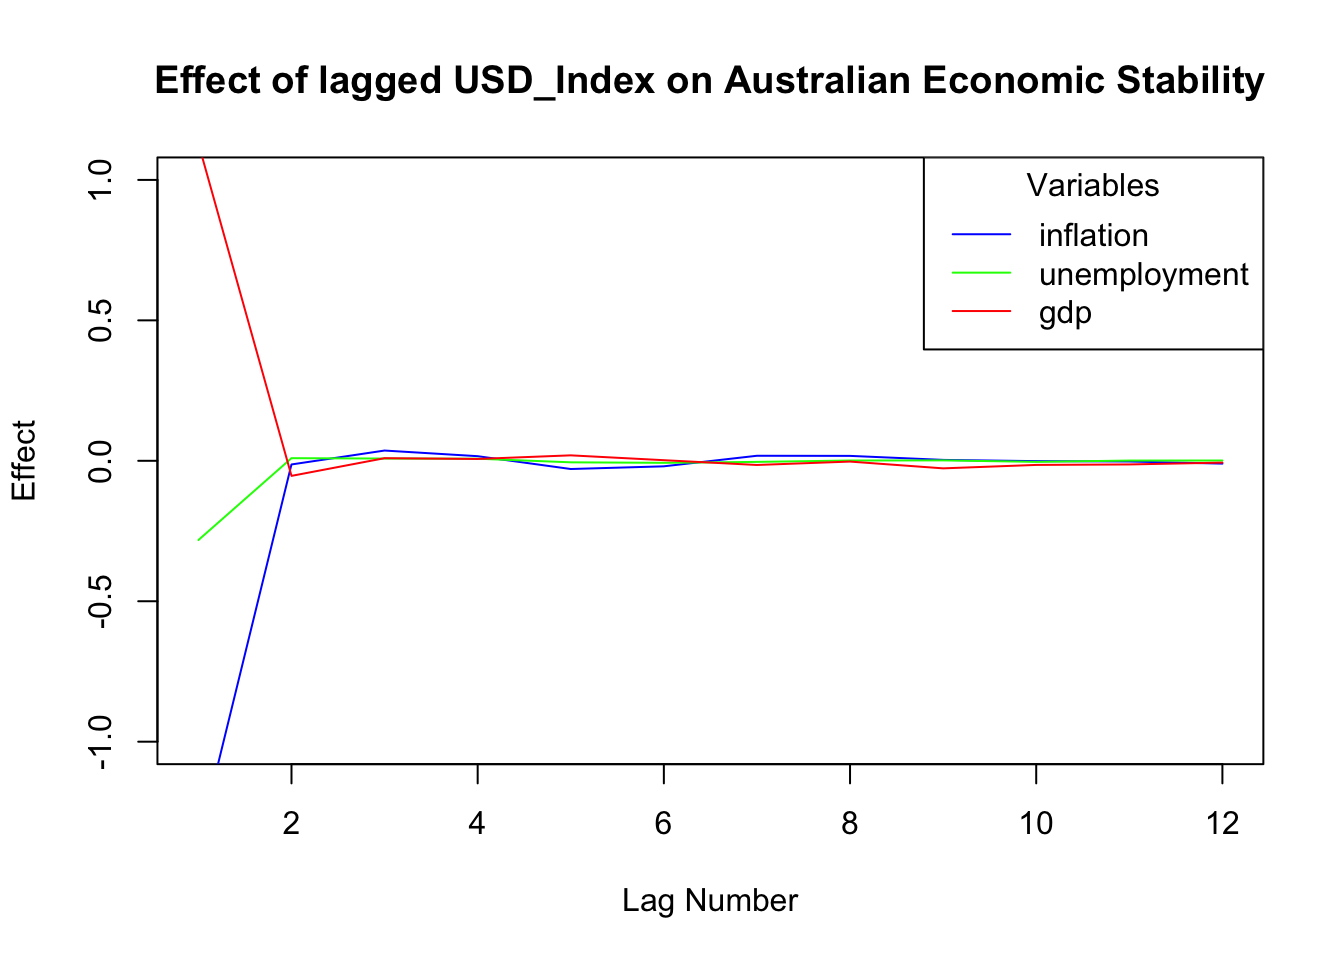
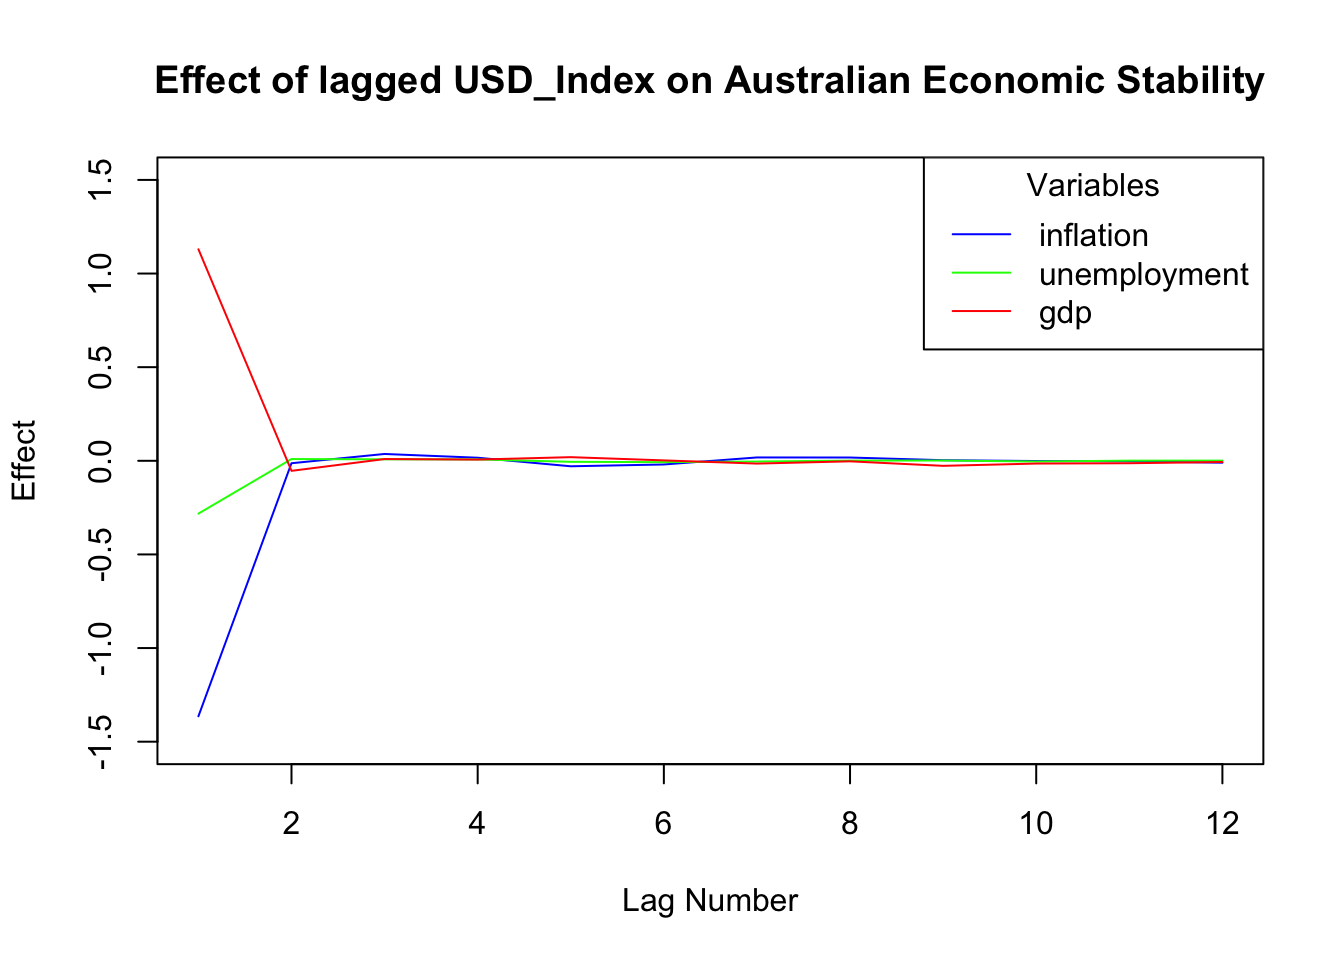
More changes for RP2

diff --git a/docs/index.html b/docs/index.html
@@ -782,20 +782,20 @@ p(B_+, B_0) \sim NGN \left( B, \Omega, S, \nu \right)
 <section id="model-extension-solving-the-identification-problem-using-a-non-normality-approach" class="level3">
 <h3 class="anchored" data-anchor-id="model-extension-solving-the-identification-problem-using-a-non-normality-approach">Model Extension: Solving the Identification Problem Using a Non-Normality Approach</h3>
 <p>We use a t-distribution to model the error terms. Given difficulties with a direct estimation of the t-distribution, we proceed as follows.</p>
-<p>To evaluate the overall kernel for the extended Bayesian Structural Vector Autoregression (SVAR) model where the error term <span class="math inline">\(u_t\)</span> follows a distribution <span class="math inline">\(N(0, \Lambda I_N)\)</span> and <span class="math inline">\(\Lambda\)</span> itself is distributed according to an Inverse Gamma Type 2 (IG2) with parameters <span class="math inline">\(\nu, \nu\)</span>, we need to account for the complexity added by this distribution of the error variance. This changes how the kernel of the likelihood function is formulated and combined with the prior.</p>
+<p>To evaluate the overall kernel for the extended Bayesian Structural Vector Autoregression (SVAR) model where the error term <span class="math inline">\(u_t\)</span> follows a distribution <span class="math inline">\(N(0, \lambda I_N)\)</span> and <span class="math inline">\(\lambda\)</span> itself is distributed according to an Inverse Gamma square (IG2) with parameters <span class="math inline">\(\nu, \nu\)</span>, we need to account for the complexity added by this distribution of the error variance. This changes how the kernel of the likelihood function is formulated and combined with the prior.</p>
 </section>
 <section id="step-1-formulating-the-kernel-of-the-likelihood-function" class="level3">
 <h3 class="anchored" data-anchor-id="step-1-formulating-the-kernel-of-the-likelihood-function">Step 1: Formulating the Kernel of the Likelihood Function</h3>
-<p>With the error term <span class="math inline">\(u_t \sim N(0, \Lambda I_N)\)</span>, the likelihood function’s kernel, incorporating the variance parameter <span class="math inline">\(\Lambda\)</span>, becomes: <span class="math display">\[
+<p>With the error term <span class="math inline">\(u_t \sim N(0, \lambda I_N)\)</span>, the likelihood function’s kernel, incorporating the variance parameter <span class="math inline">\(\lambda\)</span>, becomes: <span class="math display">\[
 \text{det}(B_0)^T \exp\left(-\frac{1}{2\lambda} \sum_{n=1}^N (b_nV_nY - B_nX)(b_nV_nY - B_nX)^T\right)
 \]</span></p>
 </section>
 <section id="step-2-estimating-lambda" class="level3">
 <h3 class="anchored" data-anchor-id="step-2-estimating-lambda">Step 2: Estimating <span class="math inline">\(\lambda\)</span></h3>
-<p>Since <span class="math inline">\(\Lambda\)</span> is a random variable following <span class="math inline">\(\lambda \sim IG2(\nu, \nu)\)</span>, its effect can be sampled from the density function for <span class="math inline">\(\lambda\)</span>: <span class="math display">\[
+<p>Since <span class="math inline">\(\lambda\)</span> is a random variable following <span class="math inline">\(\lambda \sim IG2(\nu, \nu)\)</span>, its effect can be sampled from the density function for <span class="math inline">\(\lambda\)</span>: <span class="math display">\[
 p(\lambda) = \frac{(\nu/2)^{\nu/2}}{\Gamma(\nu/2)} \lambda^{-(\nu/2+1)} \exp\left(-\frac{\nu}{2\lambda}\right)
 \]</span></p>
-<p>We can use the rinvgamma() function to sample this <span class="math inline">\(\lambda\)</span>.</p>
+<p>We can use the rinvgamma() function to sample this <span class="math inline">\(\lambda\)</span>. In the estimation process for this extended model, we sample 5000 times from the IG2 distribution and use the mean value for <span class="math inline">\(\lambda\)</span>.</p>
 </section>
 <section id="step-3-evaluating-the-kernel" class="level3">
 <h3 class="anchored" data-anchor-id="step-3-evaluating-the-kernel">Step 3: Evaluating the Kernel</h3>
@@ -824,66 +824,66 @@ p(B^+; B_0 \mid Y; X) \propto p(Y \mid X, B^+, B_0) \times p(B^+; B_0)
 <pre><code>[1] "Extended Model Normalized B0 matrix"</code></pre>
 </div>
 <div class="cell-output cell-output-stdout">
-<pre><code>           [,1]         [,2]     [,3]      [,4]
-[1,] 17.5447248  0.000000000 0.000000 0.0000000
-[2,]  0.6066615  0.783290029 0.000000 0.0000000
-[3,]  3.0716927 -0.001382988 2.495755 0.0000000
-[4,] -1.6244783  0.137164623 1.106258 0.6149039</code></pre>
+<pre><code>          [,1]         [,2]     [,3]      [,4]
+[1,] 21.931153  0.000000000 0.000000 0.0000000
+[2,]  0.789457  0.974975827 0.000000 0.0000000
+[3,]  3.809506 -0.005921796 3.100595 0.0000000
+[4,] -2.045686  0.179581024 1.358565 0.7634032</code></pre>
 </div>
 <div class="cell-output cell-output-stdout">
 <pre><code>[1] "Extended Model B plus matrix"</code></pre>
 </div>
 <div class="cell-output cell-output-stdout">
 <pre><code>           [,1]       [,2]        [,3]        [,4]        [,5]         [,6]
-[1,]  0.5717264 17.5811710  0.01870660 -0.04589570 -0.09253856 -0.052259983
-[2,] -0.3542506  0.5764503  0.76088965  0.03043814 -0.06478844  0.006236397
-[3,]  0.8443993  3.0908332 -0.11034114  2.43528012 -0.25961705 -0.063329277
-[4,] -0.5140678  1.5603584 -0.02045132 -1.09059674 -0.49160823  0.054422973
-            [,7]        [,8]       [,9]        [,10]        [,11]        [,12]
-[1,] -0.06564723  0.07953372 0.01239564 -0.029636249 -0.001895286  0.003031564
-[2,] -0.11492593 -0.04131468 0.07175522 -0.010221827  0.041708166 -0.005259848
-[3,]  0.01314148 -0.01796479 0.01810549  0.073489257  0.079760401 -0.021597586
-[4,] -0.10373115 -0.02963163 0.10150992 -0.008059976  0.014747225  0.014687269
-           [,13]       [,14]        [,15]         [,16]        [,17]
-[1,] -0.03702815 0.004066341  0.021014599 -0.0091545145 -0.003600047
-[2,]  0.04017966 0.025620049 -0.027909745 -0.0009747338  0.003676482
-[3,]  0.01812221 0.022695741  0.004634547  0.0049926167 -0.041039898
-[4,]  0.03824952 0.055160070  0.008446080  0.0119544493  0.055013162
-            [,18]       [,19]        [,20]         [,21]       [,22]
-[1,] -0.019050135 0.023046555  0.012196141  6.585230e-03  0.03184999
-[2,] -0.018830333 0.047394365 -0.007492864 -2.511422e-05 -0.01102099
-[3,]  0.005966256 0.003480108  0.040075499 -6.921549e-03 -0.01359062
-[4,]  0.019729984 0.005408230 -0.041434983 -3.528769e-02 -0.01239007
-           [,23]       [,24]         [,25]        [,26]        [,27]      [,28]
-[1,] -0.02291107 -0.02055334  0.0007983523  0.016319447  0.007056017 0.01660435
-[2,] -0.01978706  0.03967943  0.0253514406  0.020793446  0.004487553 0.01351698
-[3,]  0.01869122  0.00013625 -0.0070782904 -0.009728115 -0.013550444 0.02034147
-[4,] -0.01452926 -0.02425735 -0.0052317042  0.014353257 -0.008497063 0.03571637
-           [,29]        [,30]        [,31]        [,32]        [,33]
-[1,] -0.01340954  0.015619523 -0.005175376 -0.006349928 -0.014937136
-[2,]  0.01449678  0.009055081  0.012913362  0.006688168 -0.002136969
-[3,] -0.01214821  0.001323782  0.005293385 -0.002213979  0.010600257
-[4,] -0.00367765 -0.001298856 -0.004144130 -0.012957241 -0.002697893
-           [,34]        [,35]       [,36]        [,37]        [,38]
-[1,] -0.02063450 -0.013240470 0.006270982 -0.010951056  0.001474374
-[2,]  0.01355824 -0.006683336 0.011844474  0.003575398  0.001850699
-[3,] -0.01381290  0.000631449 0.003864264  0.002934828 -0.010007351
-[4,] -0.01635783  0.001181497 0.004433579  0.002543610 -0.026447401
-            [,39]        [,40]        [,41]        [,42]         [,43]
-[1,] -0.005027494 -0.012138949  0.002900494 -0.006772348 -0.0006355909
-[2,] -0.017747655 -0.003105948  0.016119756  0.012443641 -0.0040292022
-[3,] -0.008879749 -0.002396401 -0.009219927  0.009180831  0.0087136441
-[4,]  0.004680471 -0.014607747 -0.001484030 -0.001031692 -0.0180034960
-            [,44]         [,45]         [,46]        [,47]        [,48]
-[1,] -0.008060036 -0.0103340192  0.0093693131 -0.007302463  0.010578067
-[2,]  0.007773461  0.0032650704  0.0007821437  0.006720902 -0.010925315
-[3,]  0.015606717  0.0053015151 -0.0089897919 -0.004451172 -0.004736420
-[4,] -0.001475331  0.0007572641 -0.0021951404 -0.001070353 -0.007452707
-            [,49]
-[1,]  0.003410234
-[2,] -0.003795693
-[3,]  0.001304151
-[4,] -0.004786440</code></pre>
+[1,]  0.5545201 21.9783630  0.01707903 -0.05016267 -0.10330233 -0.046527088
+[2,] -0.3446697  0.7543187  0.94575120  0.03568751 -0.06939804  0.003062737
+[3,]  0.9069536  3.8426640 -0.11785600  3.02376498 -0.29390154 -0.057353740
+[4,] -0.5763527  1.9771160 -0.05903604 -1.35997960 -0.61618747  0.052636548
+             [,7]        [,8]        [,9]        [,10]        [,11]
+[1,] -0.069393106  0.08380805 0.004198651 -0.027607525 -0.008263343
+[2,] -0.126012520 -0.03850084 0.084910579 -0.011780891  0.038911260
+[3,]  0.008898949 -0.01556321 0.007115254  0.077637881  0.079546974
+[4,] -0.099823668 -0.02765822 0.116534811 -0.008743075  0.012178346
+            [,12]       [,13]       [,14]        [,15]        [,16]
+[1,]  0.004827759 -0.04458572 0.005687576  0.022759069 -0.008021147
+[2,] -0.006344754  0.04168518 0.024544344 -0.024786258 -0.001639141
+[3,] -0.020177153  0.01577883 0.026231469  0.008032398  0.004961702
+[4,]  0.016183484  0.04220338 0.055020268  0.006851352  0.013356313
+            [,17]        [,18]       [,19]        [,20]         [,21]
+[1,] -0.005143759 -0.018144693 0.024161714  0.012413957  0.0058345914
+[2,]  0.007560935 -0.019493838 0.045959203 -0.007599251 -0.0003216781
+[3,] -0.043826290  0.008824443 0.006673010  0.040764322 -0.0080366516
+[4,]  0.055697616  0.020131470 0.004639717 -0.041225529 -0.0294615225
+           [,22]       [,23]        [,24]         [,25]        [,26]
+[1,]  0.03246201 -0.02285225 -0.020756624  0.0008779472  0.017293008
+[2,] -0.01196913 -0.01877264  0.040221919  0.0232152318  0.020084013
+[3,] -0.01171264  0.02144913  0.000561424 -0.0088185535 -0.008506571
+[4,] -0.01189255 -0.01392041 -0.024262420 -0.0050447043  0.014843187
+            [,27]      [,28]        [,29]         [,30]        [,31]
+[1,]  0.007034166 0.01623304 -0.012405225  0.0166420388 -0.006023054
+[2,]  0.004244409 0.01381933  0.015026246  0.0085858574  0.012870967
+[3,] -0.011380486 0.02068925 -0.013648839  0.0022485993  0.006303930
+[4,] -0.008347431 0.03650869 -0.004553027 -0.0007793999 -0.004998909
+            [,32]        [,33]       [,34]         [,35]       [,36]
+[1,] -0.006278497 -0.014472010 -0.01979767 -0.0140785855 0.006575793
+[2,]  0.006892526 -0.002205889  0.01326175 -0.0065538326 0.012384537
+[3,] -0.002109528  0.010080802 -0.01314269  0.0004712669 0.003371347
+[4,] -0.011683591 -0.004151753 -0.01593710  0.0009774513 0.005546818
+            [,37]        [,38]        [,39]        [,40]        [,41]
+[1,] -0.010640432  0.002115297 -0.005430961 -0.011928735  0.003063116
+[2,]  0.003826363  0.001730049 -0.018560691 -0.002217776  0.016711863
+[3,]  0.003570637 -0.009585981 -0.009794870 -0.002914568 -0.008529754
+[4,]  0.001497777 -0.026218859  0.004650088 -0.013963490 -0.001732346
+            [,42]         [,43]        [,44]         [,45]        [,46]
+[1,] -0.006318228 -0.0005283151 -0.008291113 -0.0110705251  0.009499897
+[2,]  0.012510598 -0.0058421731  0.009215263  0.0044613867  0.001313200
+[3,]  0.009450766  0.0078062514  0.015419143  0.0051053250 -0.008523774
+[4,] -0.000973429 -0.0181017445 -0.001165227  0.0006648396 -0.002069643
+            [,47]        [,48]        [,49]
+[1,] -0.007180300  0.010665972  0.003295856
+[2,]  0.005034125 -0.008914702 -0.002081207
+[3,] -0.005390764 -0.005876193 -0.000125695
+[4,] -0.001475256 -0.007286445 -0.005061569</code></pre>
 </div>
 </div>
 <div class="cell">
@@ -891,11 +891,11 @@ p(B^+; B_0 \mid Y; X) \propto p(Y \mid X, B^+, B_0) \times p(B^+; B_0)
 <pre><code>[1] "Standard deviation of the extended model B0"</code></pre>
 </div>
 <div class="cell-output cell-output-stdout">
-<pre><code>         [,1]       [,2]      [,3]     [,4]
-[1,] 0.998243 0.00000000 0.0000000 0.000000
-[2,] 2.203203 0.04577742 0.0000000 0.000000
-[3,] 1.410348 0.06311595 0.1520692 0.000000
-[4,] 1.433877 0.06550394 0.2254225 0.038954</code></pre>
+<pre><code>         [,1]       [,2]      [,3]       [,4]
+[1,] 1.247818 0.00000000 0.0000000 0.00000000
+[2,] 2.765502 0.05700044 0.0000000 0.00000000
+[3,] 1.763129 0.07852690 0.1887961 0.00000000
+[4,] 1.792677 0.08151553 0.2796731 0.04836139</code></pre>
 </div>
 </div>
 <div class="cell">
@@ -904,45 +904,45 @@ p(B^+; B_0 \mid Y; X) \propto p(Y \mid X, B^+, B_0) \times p(B^+; B_0)
 </div>
 <div class="cell-output cell-output-stdout">
 <pre><code>          [,1]      [,2]       [,3]       [,4]       [,5]       [,6]       [,7]
-[1,] 0.5858445 17.405576 0.05417820 0.05826194 0.04809235 0.04955215 0.03952158
-[2,] 0.5514912  2.201132 0.77821806 0.06893899 0.03782008 0.04907247 0.05183146
-[3,] 0.8081736  2.198289 0.14580588 2.59098952 0.21032925 0.04959748 0.04851652
-[4,] 0.5734696  1.842776 0.07666714 1.09584687 0.50783805 0.04958583 0.06853013
+[1,] 0.5873525 21.768951 0.06209645 0.06075665 0.05366163 0.04904775 0.04114750
+[2,] 0.5601012  2.777724 0.96437709 0.07027785 0.04358044 0.04893598 0.05558376
+[3,] 0.8711106  2.750376 0.18876485 3.19617902 0.23822369 0.04951997 0.04907090
+[4,] 0.6185364  2.327759 0.09977221 1.36746568 0.63933671 0.04967937 0.06554354
            [,8]       [,9]      [,10]      [,11]      [,12]      [,13]
-[1,] 0.04470019 0.03776579 0.03370723 0.03110524 0.03244055 0.02791115
-[2,] 0.04601387 0.03871564 0.03298650 0.03956035 0.03152621 0.06549572
-[3,] 0.05639113 0.05529001 0.03302319 0.03183612 0.04156383 0.04176211
-[4,] 0.04868307 0.05663014 0.03402705 0.02909483 0.03513002 0.05124227
+[1,] 0.04494591 0.03974562 0.03367881 0.03137075 0.03240493 0.02907629
+[2,] 0.04603070 0.04560414 0.03288826 0.04124731 0.03161619 0.06590405
+[3,] 0.05585879 0.05244316 0.03299840 0.03226080 0.04016788 0.04153011
+[4,] 0.04893657 0.06725406 0.03403628 0.03030083 0.03436687 0.05218563
           [,14]      [,15]      [,16]      [,17]      [,18]      [,19]
-[1,] 0.02542990 0.02369152 0.02415228 0.02388974 0.01994050 0.01834697
-[2,] 0.02481105 0.03508239 0.02521330 0.02722375 0.02003246 0.02125952
-[3,] 0.02491853 0.02259320 0.02703999 0.02396324 0.02011448 0.01794779
-[4,] 0.02483691 0.02244008 0.02533147 0.03833735 0.02009426 0.01826574
+[1,] 0.02541192 0.02346976 0.02419798 0.02424359 0.01994175 0.01870493
+[2,] 0.02479164 0.03454116 0.02523163 0.03031547 0.02002876 0.01961073
+[3,] 0.02490692 0.02309536 0.02681124 0.02504981 0.02008444 0.01831029
+[4,] 0.02483738 0.02307880 0.02499978 0.03688717 0.02010049 0.01869603
           [,20]      [,21]      [,22]      [,23]      [,24]      [,25]
-[1,] 0.01942902 0.01816981 0.01646994 0.01600933 0.01630630 0.01566463
-[2,] 0.01960177 0.02242685 0.01686076 0.01540884 0.01684518 0.01956859
-[3,] 0.02056733 0.01849164 0.01651429 0.01574490 0.01675223 0.01575947
-[4,] 0.02014891 0.02759860 0.01652825 0.01536769 0.01661194 0.01560089
+[1,] 0.01952701 0.01875238 0.01645783 0.01618349 0.01634542 0.01607783
+[2,] 0.01974740 0.02363224 0.01684894 0.01538344 0.01694822 0.01942919
+[3,] 0.02062401 0.01864229 0.01650847 0.01582302 0.01678463 0.01611471
+[4,] 0.02006227 0.02440536 0.01652218 0.01560948 0.01657481 0.01589651
           [,26]      [,27]      [,28]      [,29]      [,30]      [,31]
-[1,] 0.01424375 0.01331000 0.01391251 0.01452375 0.01243902 0.01169533
-[2,] 0.01429686 0.01346856 0.01528097 0.01340155 0.01243559 0.01186544
-[3,] 0.01429640 0.01380831 0.01404150 0.01368638 0.01236901 0.01171945
-[4,] 0.01437385 0.01381393 0.01412502 0.01317276 0.01274038 0.01185141
+[1,] 0.01422636 0.01352839 0.01396404 0.01463207 0.01242335 0.01185311
+[2,] 0.01429681 0.01367499 0.01526117 0.01364797 0.01243381 0.01199253
+[3,] 0.01429100 0.01372885 0.01408880 0.01393546 0.01236924 0.01187867
+[4,] 0.01437683 0.01391553 0.01402487 0.01342097 0.01273763 0.01201982
           [,32]      [,33]      [,34]      [,35]      [,36]      [,37]
-[1,] 0.01232904 0.01274863 0.01130220 0.01033518 0.01096779 0.01109244
-[2,] 0.01291280 0.01182750 0.01118095 0.01076939 0.01108693 0.01061281
-[3,] 0.01239253 0.01212277 0.01124534 0.01134167 0.01081684 0.01055753
-[4,] 0.01266251 0.01214340 0.01104366 0.01033939 0.01114410 0.01117198
-           [,38]       [,39]       [,40]       [,41]       [,42]       [,43]
-[1,] 0.009885101 0.010040173 0.009815239 0.009474906 0.009092271 0.009394703
-[2,] 0.009967594 0.010017095 0.009996010 0.009562374 0.009183555 0.009588967
-[3,] 0.009892170 0.010878768 0.010006926 0.009723313 0.009089091 0.010409614
-[4,] 0.010046489 0.009475462 0.009850643 0.009420593 0.009091348 0.008646075
+[1,] 0.01236317 0.01273387 0.01130843 0.01047307 0.01098890 0.01107968
+[2,] 0.01297926 0.01203530 0.01118281 0.01094678 0.01115606 0.01083649
+[3,] 0.01243996 0.01222134 0.01124934 0.01121707 0.01083506 0.01071766
+[4,] 0.01249972 0.01212791 0.01104356 0.01048796 0.01102904 0.01109614
+           [,38]      [,39]       [,40]       [,41]       [,42]       [,43]
+[1,] 0.009883921 0.01001850 0.009834915 0.009608150 0.009097004 0.009283686
+[2,] 0.009961143 0.01009844 0.010033441 0.009755788 0.009176971 0.009579818
+[3,] 0.009899925 0.01061703 0.010002333 0.009847171 0.009095368 0.010107841
+[4,] 0.010039042 0.00958461 0.009823974 0.009536146 0.009084603 0.008764891
            [,44]       [,45]       [,46]       [,47]       [,48]       [,49]
-[1,] 0.009015458 0.009734653 0.008333003 0.008639652 0.008300893 0.009252583
-[2,] 0.008978165 0.008880397 0.008170052 0.008875240 0.008207696 0.008943051
-[3,] 0.009104242 0.009659863 0.008263034 0.008716150 0.008221970 0.008469236
-[4,] 0.009011647 0.008486809 0.008199284 0.007974499 0.008481802 0.008159732</code></pre>
+[1,] 0.009037238 0.009640977 0.008327001 0.008606588 0.008348103 0.009042438
+[2,] 0.008988614 0.008980078 0.008162211 0.008866755 0.008209095 0.008820060
+[3,] 0.009109566 0.009434646 0.008266602 0.008681388 0.008236743 0.008409362
+[4,] 0.009032642 0.008598059 0.008197906 0.008077132 0.008499641 0.008240017</code></pre>
 </div>
 </div>
 <div class="cell">
@@ -958,7 +958,7 @@ p(B^+; B_0 \mid Y; X) \propto p(Y \mid X, B^+, B_0) \times p(B^+; B_0)
 <section id="conclusion" class="level3">
 <h3 class="anchored" data-anchor-id="conclusion">Conclusion</h3>
 <p>The overall kernel for this extended model encapsulates to the random variance <span class="math inline">\(\Lambda\)</span>. This allows for a more robust handling of heteroscedasticity and potential non-stationarities in the error terms, offering nuanced insights into the dynamics under study.</p>
-<p>The results suggest elasticities that are statistically significant. The table below summarises these results.</p>
+<p>The results suggest the following elasticities. According to the basic model, a weaker Dixie is likely to overheat the Australian economy: a drop of 1 per cent in the USD Index would result in roughly 1 per cent increase in inflation, roughly unchanged unemployment, and roughly 1% increase in the GDP growth rate. On the other hand, the expanded model suggests that a weakening Dixie would result in a “Goldilocks economy” in Australia: 1 per cent decrease in the USD Index would result is roughly 1 per cent decrease in inflation, roughly 1 per cent decrease in unemployment, and roughly 2.5 per cent increase in the GDP growth rate.</p>
 <div class="cell">
 <div class="cell-output-display">
 <div>
@@ -975,17 +975,17 @@ p(B^+; B_0 \mid Y; X) \propto p(Y \mid X, B^+, B_0) \times p(B^+; B_0)
 <tr class="odd">
 <td style="text-align: center;">Inflation</td>
 <td style="text-align: center;">-1.2314784</td>
-<td style="text-align: center;">0.7745042</td>
+<td style="text-align: center;">0.8097196</td>
 </tr>
 <tr class="even">
 <td style="text-align: center;">Unemployment</td>
 <td style="text-align: center;">-0.3026575</td>
-<td style="text-align: center;">1.2307668</td>
+<td style="text-align: center;">1.2286370</td>
 </tr>
 <tr class="odd">
 <td style="text-align: center;">GDP Growth</td>
 <td style="text-align: center;">-1.1462863</td>
-<td style="text-align: center;">-2.6418409</td>
+<td style="text-align: center;">-2.6796926</td>
 </tr>
 </tbody>
 </table>
